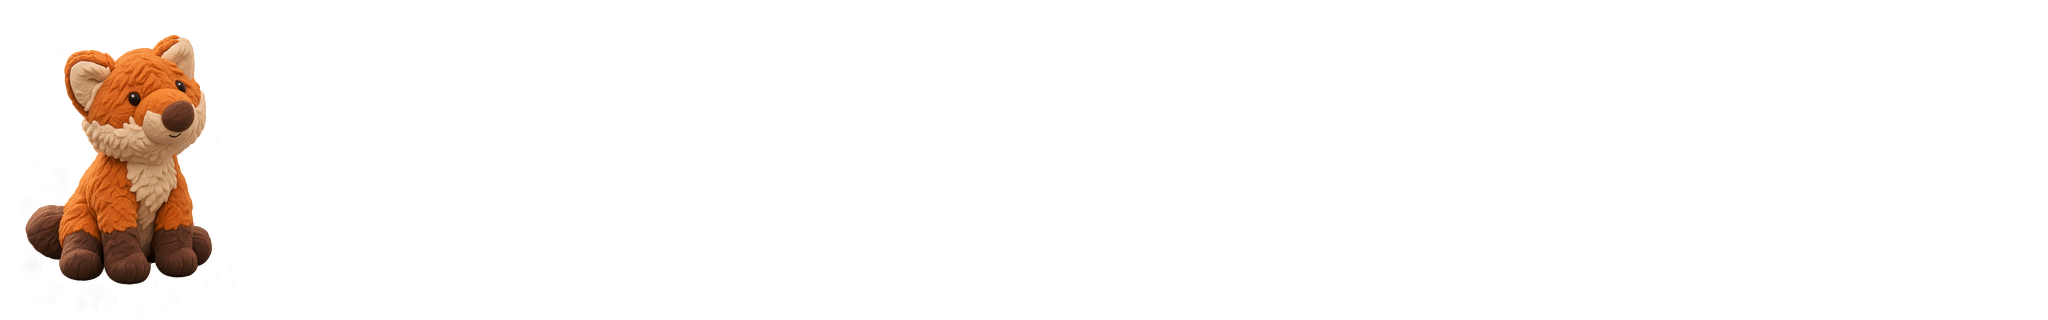
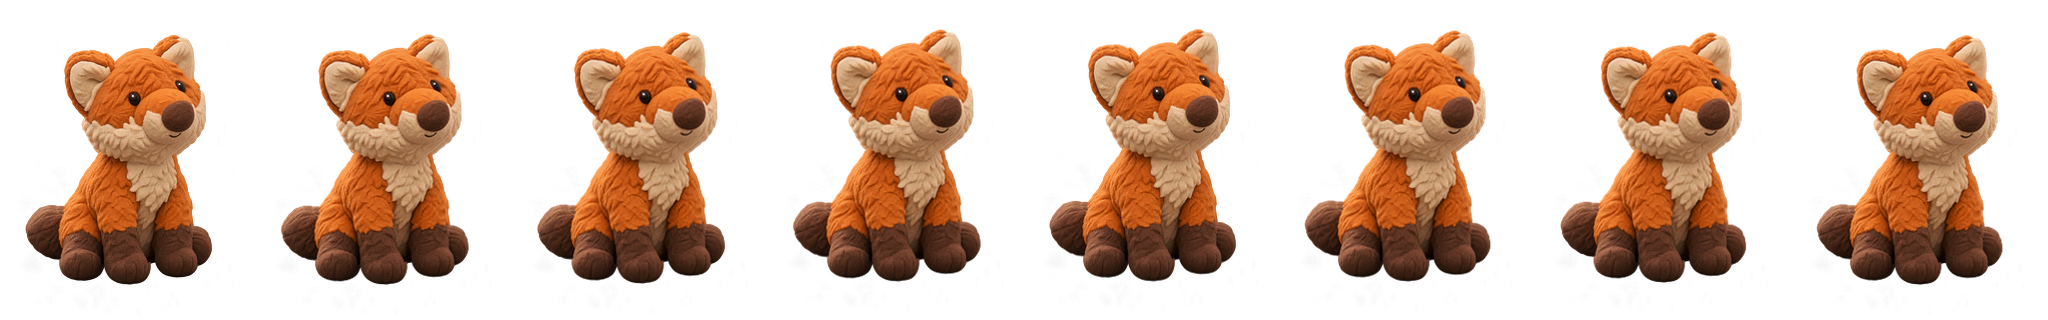
upd

diff --git a/style.css b/style.css
@@ -14,7 +14,7 @@
 @media(max-width:700px){.npc-character{height:39%;right:3%;bottom:5%}.booba-character{height:44%;right:7%;bottom:5%}.item-art{width:30px;height:30px}}
 
 /* v0.4: frame-based clay idle sprite atlases */
-.clay-anim{height:100%;width:100%;background-repeat:no-repeat;background-size:800% 100%;background-position:0 0;animation:clay-idle 1.6s steps(8) infinite;transform-origin:bottom center}
+.clay-anim{height:100%;width:100%;background-repeat:no-repeat;background-size:800% 100%;background-position:0 0;animation:clay-idle 2s steps(8, end) infinite;transform-origin:bottom center}
 .idle-captain{background-image:url('assets/animations/captain-idle.png')}
 .idle-booba{background-image:url('assets/animations/booba-idle.png')}
 .idle-maria{background-image:url('assets/animations/maria-idle.png')}

diff --git a/README-v0.4.md b/README-v0.4.md
@@ -15,3 +15,7 @@
 
 ## Проверка
 Проверен синтаксис `game.js`, наличие всех фоновых файлов, персонажей, предметов и кадров. Сквозное тестирование в реальном браузере не проводилось.
+
+
+### v0.4.1 — Fixed flickering animation
+Rebuilt all five 8-frame idle sheets. The v0.4 sheets contained only frame 1, with frames 2-8 completely transparent. New sheets contain visible character in every frame, subtly varying pose/position. Updated animation duration to 2s. All game mechanics and localStorage save keys unchanged.
